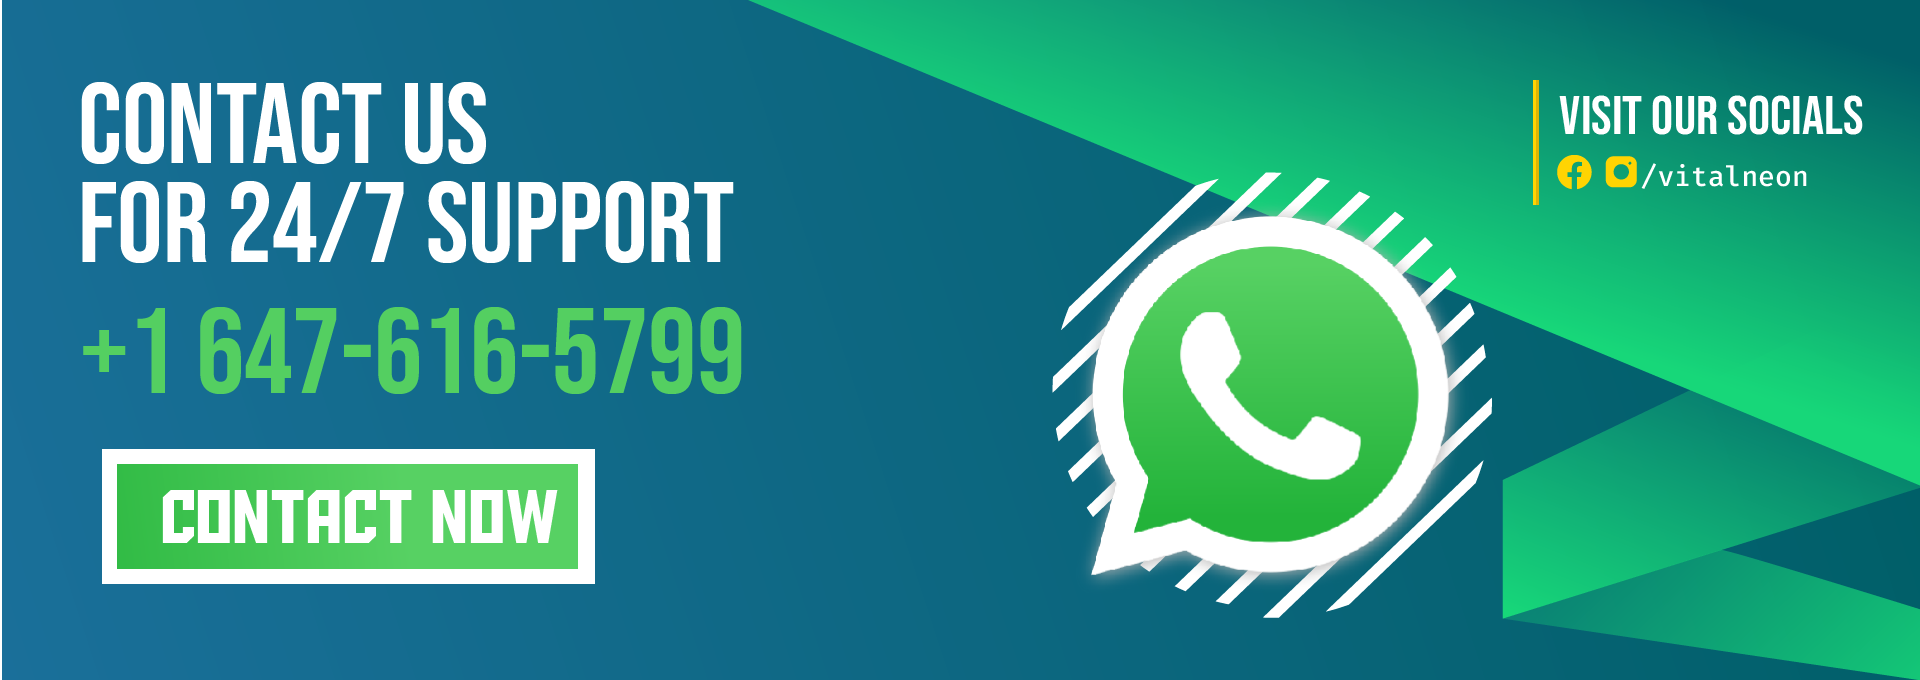
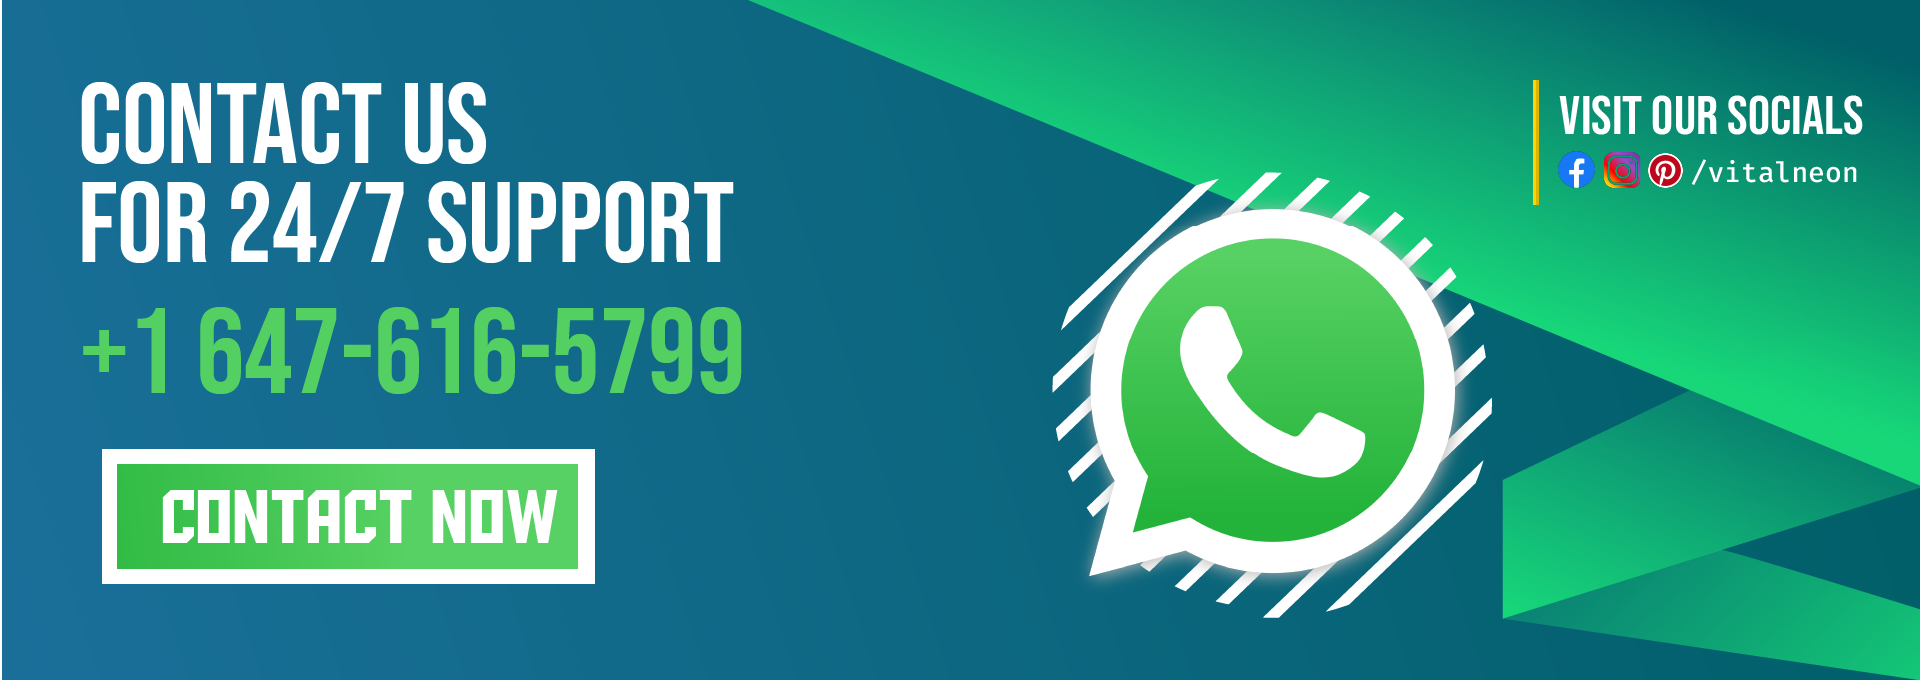
added design and shipping address

diff --git a/resources/css/app.css b/resources/css/app.css
@@ -1,4 +1,4 @@
-@import url('https://fonts.googleapis.com/css2?family=Open+Sans:wght@300;400;500;600;700&family=Roboto+Condensed:ital,wght@0,300;0,400;0,700;1,300;1,400;1,700&family=Josefin+Sans:ital,wght@0,100;0,200;0,300;0,400;0,500;0,600;0,700;1,100;1,200;1,300;1,400;1,500;1,600;1,700&family=Epilogue:wght@100;200;300;400;500;600;700;800;900&family=Montserrat:ital,wght@1,100&family=Inter:wght@100;200;300;400;500;600;700;800;900&family=Rubik:wght@300;400;500;600;700&display=swap');
+@import url('https://fonts.googleapis.com/css2?family=Open+Sans:wght@300;400;500;600;700&family=Roboto+Condensed:ital,wght@0,300;0,400;0,700;1,300;1,400;1,700&family=Josefin+Sans:ital,wght@0,100;0,200;0,300;0,400;0,500;0,600;0,700;1,100;1,200;1,300;1,400;1,500;1,600;1,700&family=Epilogue:wght@100;200;300;400;500;600;700;800;900&family=Montserrat:ital,wght@1,100&family=Fira+Code:wght@400;500&family=Bebas+Neue&family=Inter:wght@100;200;300;400;500;600;700;800;900&family=Rubik:wght@300;400;500;600;700&display=swap');
 @import url('https://fonts.googleapis.com/css2?family=Abel&family=Allura&family=Dancing+Script:wght@500&family=MonteCarlo&display=swap');
 
 @tailwind base;
@@ -50,6 +50,15 @@ h1, h2, h3{
 
 .p1{
     font-family: 'Montserrat', sans-serif;
+}
+
+.bebas{
+    font-family: 'Bebas Neue', sans-serif;
+}
+
+.code{
+    font-family: 'Fira Code', monospace;
+    font-weight: 400;
 }
 
 nav a, nav .category{
@@ -357,7 +366,7 @@ nav a, nav .category{
 }
 
 .neonText{
-    font-family: 'signature';
+    font-family: 'billistone';
     text-shadow:
     0 0 7px #ff5500,
     0 0 7px #ff5500,

diff --git a/tailwind.config.js b/tailwind.config.js
@@ -11,6 +11,12 @@ module.exports = {
     theme: {
         extend: {
             screens: {
+                "1530px": {
+                    "max": "1530px"
+                },
+                "1330px": {
+                    "max": "1330px"
+                },
                 "1090px": {
                     "max": "1090px"
                 },

diff --git a/app/Http/Controllers/HomeController.php b/app/Http/Controllers/HomeController.php
@@ -12,14 +12,14 @@ class HomeController extends Controller
 {
     public function index(){
         SEOMeta::setTitle("Buy Custom Neon Signs | VitalNeon");
-        SEOMeta::setDescription("Welcome to VitalNeon, your one-stop-shop for buying and creating custom neon signs. We offer a wide variety of pre-made neon signs for purchase, as well as the option to create your own personalized neon sign. Our team of experienced designers and artisans use only the highest quality materials to produce stunning neon signs that will make your business, event, or home truly stand out. Whether you're looking for a classic neon sign or something completely unique, VitalNeon has got you covered. Shop now and bring your vision to life with VitalNeon.");
+        SEOMeta::setDescription("Buy Energy Efficient and Loss Power Hungry Custom Artwork Neon Signs. Colored and Milky White Neon Signs. Cut to shape, Cut to letter, Cut ot rectangle neon signs. Buy Indoor or Out Door neon signs. Buy US Canada, Europe, Australia and Japan standard Neon Power Adaptors. Remote and RGB Dimmer Neon Signs. Screw Fixation, Hinge Suspension and Acrylic Stand Neon Signs.");
         SEOMeta::setCanonical("https://vitalneon.com");
         SEOMeta::setRobots("index, follow");
         SEOMeta::addMeta("apple-mobile-web-app-title", "VitalNeon");
         SEOMeta::addMeta("application-name", "VitalNeon");
 
         OpenGraph::setTitle("Buy Custom Neon Signs | VitalNeon");
-        OpenGraph::setDescription("Welcome to VitalNeon, your one-stop-shop for buying and creating custom neon signs. We offer a wide variety of pre-made neon signs for purchase, as well as the option to create your own personalized neon sign. Our team of experienced designers and artisans use only the highest quality materials to produce stunning neon signs that will make your business, event, or home truly stand out. Whether you're looking for a classic neon sign or something completely unique, VitalNeon has got you covered. Shop now and bring your vision to life with VitalNeon."); 
+        OpenGraph::setDescription("Buy Energy Efficient and Loss Power Hungry Custom Artwork Neon Signs. Colored and Milky White Neon Signs. Cut to shape, Cut to letter, Cut ot rectangle neon signs. Buy Indoor or Out Door neon signs. Buy US Canada, Europe, Australia and Japan standard Neon Power Adaptors. Remote and RGB Dimmer Neon Signs. Screw Fixation, Hinge Suspension and Acrylic Stand Neon Signs."); 
         OpenGraph::setUrl("https://vitalneon.com");
         OpenGraph::addProperty("type", "website");
         OpenGraph::addProperty("locale", "eu");
@@ -29,10 +29,10 @@ class HomeController extends Controller
         TwitterCard::setTitle("Buy Custom Neon Signs | VitalNeon");
         TwitterCard::setSite("@vitalneon");
         TwitterCard::setImage("https://vitalneon.com/assets/seo/home-2.png");
-        TwitterCard::setDescription("Welcome to VitalNeon, your one-stop-shop for buying and creating custom neon signs. We offer a wide variety of pre-made neon signs for purchase, as well as the option to create your own personalized neon sign. Our team of experienced designers and artisans use only the highest quality materials to produce stunning neon signs that will make your business, event, or home truly stand out. Whether you're looking for a classic neon sign or something completely unique, VitalNeon has got you covered. Shop now and bring your vision to life with VitalNeon.");
+        TwitterCard::setDescription("Buy Energy Efficient and Loss Power Hungry Custom Artwork Neon Signs. Colored and Milky White Neon Signs. Cut to shape, Cut to letter, Cut ot rectangle neon signs. Buy Indoor or Out Door neon signs. Buy US Canada, Europe, Australia and Japan standard Neon Power Adaptors. Remote and RGB Dimmer Neon Signs. Screw Fixation, Hinge Suspension and Acrylic Stand Neon Signs.");
 
         JsonLd::setTitle("Buy Custom Neon Signs | VitalNeon");
-        JsonLd::setDescription("Welcome to VitalNeon, your one-stop-shop for buying and creating custom neon signs. We offer a wide variety of pre-made neon signs for purchase, as well as the option to create your own personalized neon sign. Our team of experienced designers and artisans use only the highest quality materials to produce stunning neon signs that will make your business, event, or home truly stand out. Whether you're looking for a classic neon sign or something completely unique, VitalNeon has got you covered. Shop now and bring your vision to life with VitalNeon.");
+        JsonLd::setDescription("Buy Energy Efficient and Loss Power Hungry Custom Artwork Neon Signs. Colored and Milky White Neon Signs. Cut to shape, Cut to letter, Cut ot rectangle neon signs. Buy Indoor or Out Door neon signs. Buy US Canada, Europe, Australia and Japan standard Neon Power Adaptors. Remote and RGB Dimmer Neon Signs. Screw Fixation, Hinge Suspension and Acrylic Stand Neon Signs.");
         JsonLd::addImage("https://vitalneon.com/assets/seo/home-2.png");
         JsonLd::setType("WebSite");
         JsonLd::addImage("https://vitalneon.com/assets/seo/home-1.png", ["height" => 400, "width" => 760]);

diff --git a/resources/views/home.blade.php b/resources/views/home.blade.php
@@ -1,18 +1,52 @@
 @extends('layouts.apps')
 @section('content')
-    <section id="image-carousel max-h-[675px] overflow-hidden" class="splide w-full" aria-label="Beautiful Images">
+    <section id="max-h-[675px] overflow-hidden relative h-fit" class="w-full" aria-label="Beautiful Images">
+        <div class="border-l-[5px] border-yellow-500 py-5 px-5 absolute top-[43%] left-[3%] 1530px:top-[35%] 1330px:hidden">
+            <h4 class="bebas text-white text-5xl mb-2">VISIT our Socials</h4>
+            <div class="flex items-center">
+                <ul class="flex">
+                    <a class="mr-2" href="https://www.facebook.com/profile.php?id=100089690514265/" target="_blank" rel="nofollow"><img src="https://api.iconify.design/logos:facebook.svg?color=%23d83013" width="25" alt="Facebook"></a>
+                    <a class="mr-2" href="https://www.instagram.com/vitalneon/" target="_blank" rel="nofollow"><img src="https://api.iconify.design/skill-icons:instagram.svg?color=%23f72696" width="25" alt="Instagram"></a>
+                    <a class="mr-2" href="https://www.pinterest.com/mobycarts/" target="_blank" rel="nofollow"><img src="https://api.iconify.design/logos:pinterest.svg?color=%23f72696" width="25" alt="Pinterest"></a>
+                </ul>
+                <p class="text-white code">/vitalneon</p>
+            </div>
+        </div>
+        <img src="{{ asset('assets/slides/BANNER.gif') }}" class="w-full" alt="Slider 01">
+    </section>
+
+
+    {{-- <section id="image-carousel max-h-[675px] overflow-hidden" class="splide w-full" aria-label="Beautiful Images">
         <div class="splide__track w-full">
             <ul class="splide__list w-full">
                 <li class="splide__slide w-full">
-                    <a href="{{ route('create-design') }}"><img src="{{ asset('assets/slides/slider_01.png') }}" class="w-full" alt="Slider 01"></a>
-                </li>
-                <li class="splide__slide w-full">
-                    <a href="{{ route('upload-design') }}"><img src="{{ asset('assets/slides/slider_02.png') }}" class="w-full" alt="Slider 02"></a>
-                </li>
-                <li class="splide__slide w-full">
-                    <a href="https://wa.me/16476165799"><img src="{{ asset('assets/slides/slider_03.png') }}" class="w-full" alt="Slider 03"></a>
+                    <a href="{{ route('create-design') }}"><img src="{{ asset('assets/slides/BANNER.gif') }}" class="w-full" alt="Slider 01"></a>
                 </li>
             </ul>
+        </div>
+    </section> --}}
+
+    <section class="w-full px-4 pt-[50px] hidden 1330px:block">
+        <h3 class="bebas text-4xl text-white mb-3 text-center">VISIT Our SOCIALS</h3>
+        <div class="max-w-4xl m-auto grid grid-cols-3 gap-6 850px:grid-cols-2 850px:max-w-xl 575px:grid-cols-1 575px:max-w-[300px]">
+            <a href="https://www.facebook.com/profile.php?id=100089690514265/" class="flex justify-center items-center bg-light border border-white/10 rounded-lg p-6">
+                <div class="flex items-center">
+                    <img src="https://api.iconify.design/logos:facebook.svg?color=%23d83013" width="40" alt="Package Icon">
+                    <span class="text-gray-300 font-semibold ml-3">FACEBOOK</span>
+                </div>
+            </a>
+            <a href="https://www.instagram.com/vitalneon/" class="flex justify-center items-center bg-light border border-white/10 rounded-lg p-6">
+                <div class="flex items-center">
+                    <img src="https://api.iconify.design/skill-icons:instagram.svg?color=%23f72696" width="40" alt="Package Icon">
+                    <span class="text-gray-300 font-semibold ml-3">INSTAGRAM</span>
+                </div>
+            </a>
+            <a href="https://www.pinterest.com/mobycarts/" class="flex justify-center items-center bg-light border border-white/10 rounded-lg p-6">
+                <div class="flex items-center">
+                    <img src="https://api.iconify.design/logos:pinterest.svg?color=%23f72696" width="40" alt="Package Icon">
+                    <span class="text-gray-300 font-semibold ml-3">PINTEREST</span>
+                </div>
+            </a>
         </div>
     </section>
     

diff --git a/app/Http/Livewire/CreateDesign.php b/app/Http/Livewire/CreateDesign.php
@@ -98,7 +98,7 @@ class CreateDesign extends Component
     $color,$color2, $color3, 
     $font, $font2, $font3,
     $location,
-    $kit;
+    $kit, $address;
 
     public $shapes, 
     $shape, 
@@ -120,6 +120,7 @@ class CreateDesign extends Component
 
     protected $rules = [
         'line1' => 'required',
+        'address' => 'required|max:255',
         'shape' => 'required',
         'remote' => 'required',
         'total_price' => 'required|numeric',
@@ -393,6 +394,7 @@ class CreateDesign extends Component
                 'adaptor' => $this->adaptor,
                 'remote' => $this->remote,
                 'align' => $this->alignment,
+                'address' => $this->address,
                 'email' => $this->email,
                 'phone' => $this->phone,
                 'kit' => $this->kit,
@@ -402,7 +404,7 @@ class CreateDesign extends Component
                 'checkout_id' => $checkout_id
             ]);
             Http::post(config('app.order-pending'), [
-                'content' => "**Email:** $this->email\n**PhoneNumber:** $this->phone\n**CheckoutID:** $checkout_id\n**TotalPrice: $**$this->total_price\n**Jacket:** $this->jacket\n**Line 1:** $this->line1|$this->font|$this->color\n**Line 2:** $this->line2|$this->font2|$this->color3\n**Line 3:** $this->line3|$this->font3|$this->color3\n**Backboard:** $this->shape\n**Kit:** $this->kit\n**Location:** $this->location\n**Adaptor:** $this->adaptor\n**Remote:** $this->remote\n**Alignment:** $this->alignment\n**PriceID:** {$result['id']}\n**CheckoutURL:**{$checkout['url']}"
+                'content' => "**Email:** $this->email\n**PhoneNumber:** $this->phone\n**CheckoutID:** $checkout_id\n**TotalPrice: $**$this->total_price\n**Jacket:** $this->jacket\n**Line 1:** $this->line1|$this->font|$this->color\n**Line 2:** $this->line2|$this->font2|$this->color3\n**Line 3:** $this->line3|$this->font3|$this->color3\n**Backboard:** $this->shape\n**Kit:** $this->kit\n**Location:** $this->location\n**Adaptor:** $this->adaptor\n**Remote:** $this->remote\n**Alignment:** $this->alignment\n**PriceID:** {$result['id']}\n**Address:** $this->address\n**CheckoutURL:**{$checkout['url']}"
             ]);
             return redirect($checkout['url']);
         }else{

diff --git a/resources/views/components/footer.blade.php b/resources/views/components/footer.blade.php
@@ -3,11 +3,12 @@
         <div class="flex flex-col">
             <img src="{{ asset('assets/neon_tranp_white.png') }}" width="148" alt="VitalNeon icon">
             <p class="mb-3 py-3 border-b border-white/5 text-sm">Welcome to VitalNeon, your one-stop-shop for buying and creating custom neon signs. We offer a wide variety of pre-made neon signs for purchase, as well as the option to create your own personalized neon sign</p>
-            <address class="flex items-center mb-3"><img class="mr-2" src="https://api.iconify.design/material-symbols:add-location-alt-rounded.svg?color=%23dbdbdb" width="25" alt="Address Icon"> 73 Belmont Drive, Brampton, ON, Canada, Ontario</address>
+            <address class="flex items-center mb-3"><img class="mr-2" src="https://api.iconify.design/material-symbols:add-location-alt-rounded.svg?color=%23dbdbdb" width="25" alt="Address Icon"> L6T 2K5, Brampton, ON, Canada, Ontario</address>
             <address class="flex items-center mb-3"><img class="mr-2" src="https://api.iconify.design/mdi:gmail.svg?color=%23dbdbdb" width="25" alt="Address Icon"> contact@vitalneon.com</address>
             <ul class="flex items-center">
                 <a class="mr-4" href="https://www.instagram.com/vitalneon/" rel="nofollow" target="_blank"><img src="https://api.iconify.design/skill-icons:instagram.svg?color=%23f91a1a" width="25" alt="Social Media Icon"></a>
-                <a class="mr-2" href="https://www.facebook.com/profile.php?id=100089690514265/" rel="nofollow" target="_blank"><img src="https://api.iconify.design/logos:facebook.svg?color=%23f91a1a" width="25" alt="Social Media Icon"></a>
+                <a class="mr-4" href="https://www.facebook.com/profile.php?id=100089690514265/" rel="nofollow" target="_blank"><img src="https://api.iconify.design/logos:facebook.svg?color=%23f91a1a" width="25" alt="Social Media Icon"></a>
+                <a class="mr-2" href="https://www.pinterest.com/mobycarts/" target="_blank" rel="nofollow"><img src="https://api.iconify.design/logos:pinterest.svg?color=%23f72696" width="25" alt="Pinterest"></a>
             </ul>
         </div>
        <div class="text-end 475px:text-start">

diff --git a/resources/views/layouts/apps.blade.php b/resources/views/layouts/apps.blade.php
@@ -10,6 +10,23 @@
     <link rel="shortcut icon" href="{{ asset('assets/images/vn_favicon.png') }}" type="image/x-icon">
     <script src="https://cdnjs.cloudflare.com/ajax/libs/alpinejs/2.3.0/alpine-ie11.js" integrity="sha512-6m6AtgVSg7JzStQBuIpqoVuGPVSAK5Sp/ti6ySu6AjRDa1pX8mIl1TwP9QmKXU+4Mhq/73SzOk6mbNvyj9MPzQ==" crossorigin="anonymous" referrerpolicy="no-referrer"></script>
     <meta name="facebook-domain-verification" content="y38e4f9vs00rn3zxrkqcdc2av8xw6g" />
+    <!-- Meta Pixel Code -->
+        <script>
+        !function(f,b,e,v,n,t,s)
+        {if(f.fbq)return;n=f.fbq=function(){n.callMethod?
+        n.callMethod.apply(n,arguments):n.queue.push(arguments)};
+        if(!f._fbq)f._fbq=n;n.push=n;n.loaded=!0;n.version='2.0';
+        n.queue=[];t=b.createElement(e);t.async=!0;
+        t.src=v;s=b.getElementsByTagName(e)[0];
+        s.parentNode.insertBefore(t,s)}(window, document,'script',
+        'https://connect.facebook.net/en_US/fbevents.js');
+        fbq('init', '1316995952360549');
+        fbq('track', 'PageView');
+        </script>
+        <noscript><img height="1" width="1" style="display:none"
+        src="https://www.facebook.com/tr?id=1316995952360549&ev=PageView&noscript=1"
+        /></noscript>
+        <!-- End Meta Pixel Code -->
      <script>
         (function(w,d,s,r,n){w.TrustpilotObject=n;w[n]=w[n]||function(){(w[n].q=w[n].q||[]).push(arguments)};
             a=d.createElement(s);a.async=1;a.src=r;a.type='text/java'+s;f=d.getElementsByTagName(s)[0];

diff --git a/resources/views/layouts/app.blade.php b/resources/views/layouts/app.blade.php
@@ -11,6 +11,23 @@
         <link rel="preconnect" href="https://fonts.bunny.net">
         <link href="https://fonts.bunny.net/css?family=figtree:400,500,600&display=swap" rel="stylesheet" />
         <meta name="facebook-domain-verification" content="y38e4f9vs00rn3zxrkqcdc2av8xw6g" />
+        <!-- Meta Pixel Code -->
+        <script>
+        !function(f,b,e,v,n,t,s)
+        {if(f.fbq)return;n=f.fbq=function(){n.callMethod?
+        n.callMethod.apply(n,arguments):n.queue.push(arguments)};
+        if(!f._fbq)f._fbq=n;n.push=n;n.loaded=!0;n.version='2.0';
+        n.queue=[];t=b.createElement(e);t.async=!0;
+        t.src=v;s=b.getElementsByTagName(e)[0];
+        s.parentNode.insertBefore(t,s)}(window, document,'script',
+        'https://connect.facebook.net/en_US/fbevents.js');
+        fbq('init', '1316995952360549');
+        fbq('track', 'PageView');
+        </script>
+        <noscript><img height="1" width="1" style="display:none"
+        src="https://www.facebook.com/tr?id=1316995952360549&ev=PageView&noscript=1"
+        /></noscript>
+        <!-- End Meta Pixel Code -->
         <script async src="https://www.googletagmanager.com/gtag/js?id=G-71G4KSCD1D"></script>
         <script>
         (function(w,d,s,r,n){w.TrustpilotObject=n;w[n]=w[n]||function(){(w[n].q=w[n].q||[]).push(arguments)};

diff --git a/resources/views/layouts/base.blade.php b/resources/views/layouts/base.blade.php
@@ -7,6 +7,23 @@
     <link rel="shortcut icon" href="{{ asset('assets/images/vn_favicon.png') }}" type="image/x-icon">
     <script src="https://unpkg.com/alpinejs" defer></script>
     <meta name="facebook-domain-verification" content="y38e4f9vs00rn3zxrkqcdc2av8xw6g" />
+    <!-- Meta Pixel Code -->
+        <script>
+        !function(f,b,e,v,n,t,s)
+        {if(f.fbq)return;n=f.fbq=function(){n.callMethod?
+        n.callMethod.apply(n,arguments):n.queue.push(arguments)};
+        if(!f._fbq)f._fbq=n;n.push=n;n.loaded=!0;n.version='2.0';
+        n.queue=[];t=b.createElement(e);t.async=!0;
+        t.src=v;s=b.getElementsByTagName(e)[0];
+        s.parentNode.insertBefore(t,s)}(window, document,'script',
+        'https://connect.facebook.net/en_US/fbevents.js');
+        fbq('init', '1316995952360549');
+        fbq('track', 'PageView');
+        </script>
+        <noscript><img height="1" width="1" style="display:none"
+        src="https://www.facebook.com/tr?id=1316995952360549&ev=PageView&noscript=1"
+        /></noscript>
+        <!-- End Meta Pixel Code -->
     <script>
         (function(w,d,s,r,n){w.TrustpilotObject=n;w[n]=w[n]||function(){(w[n].q=w[n].q||[]).push(arguments)};
             a=d.createElement(s);a.async=1;a.src=r;a.type='text/java'+s;f=d.getElementsByTagName(s)[0];

diff --git a/resources/views/layouts/guest.blade.php b/resources/views/layouts/guest.blade.php
@@ -13,6 +13,24 @@
         <!-- Scripts -->
         <meta name="facebook-domain-verification" content="y38e4f9vs00rn3zxrkqcdc2av8xw6g" />
         
+        <!-- Meta Pixel Code -->
+        <script>
+        !function(f,b,e,v,n,t,s)
+        {if(f.fbq)return;n=f.fbq=function(){n.callMethod?
+        n.callMethod.apply(n,arguments):n.queue.push(arguments)};
+        if(!f._fbq)f._fbq=n;n.push=n;n.loaded=!0;n.version='2.0';
+        n.queue=[];t=b.createElement(e);t.async=!0;
+        t.src=v;s=b.getElementsByTagName(e)[0];
+        s.parentNode.insertBefore(t,s)}(window, document,'script',
+        'https://connect.facebook.net/en_US/fbevents.js');
+        fbq('init', '1316995952360549');
+        fbq('track', 'PageView');
+        </script>
+        <noscript><img height="1" width="1" style="display:none"
+        src="https://www.facebook.com/tr?id=1316995952360549&ev=PageView&noscript=1"
+        /></noscript>
+        <!-- End Meta Pixel Code -->
+        
         <script>
         (function(w,d,s,r,n){w.TrustpilotObject=n;w[n]=w[n]||function(){(w[n].q=w[n].q||[]).push(arguments)};
             a=d.createElement(s);a.async=1;a.src=r;a.type='text/java'+s;f=d.getElementsByTagName(s)[0];

diff --git a/resources/views/livewire/create-design.blade.php b/resources/views/livewire/create-design.blade.php
@@ -293,6 +293,11 @@
                 <p class="text-red-600 mb-2">{{ $message }}</p>
             @enderror
 
+            <input type="text" wire:model.debounce.500ms="address" placeholder="Shipping Address" class="w-full border-none bg-dark mt-2 rounded focus:border-main focus:ring-4 focus:ring-main text-base outline-none text-gray-300 py-2 px-3 leading-8 transition-colors duration-200 ease-in-out mb-3">
+            @error('address')
+                <p class="text-red-600 mb-2">{{ $message }}</p>
+            @enderror
+
             <input type="text" wire:model.debounce.500ms="email" placeholder="Email Address" class="w-full border-none bg-dark mt-2 rounded focus:border-main focus:ring-4 focus:ring-main text-base outline-none text-gray-300 py-2 px-3 leading-8 transition-colors duration-200 ease-in-out mb-3">
             @error('email')
                 <p class="text-red-600 mb-2">{{ $message }}</p>

diff --git a/database/migrations/2023_03_20_151929_create_carts_table.php b/database/migrations/2023_03_20_151929_create_carts_table.php
@@ -28,6 +28,7 @@ return new class extends Migration
             $table->string('price_id');
             $table->string('email');
             $table->text('order_id');
+            $table->string('address');
             $table->string('status')->default('pending');
             $table->boolean('paid')->default(false);
             $table->text('checkout_id');
